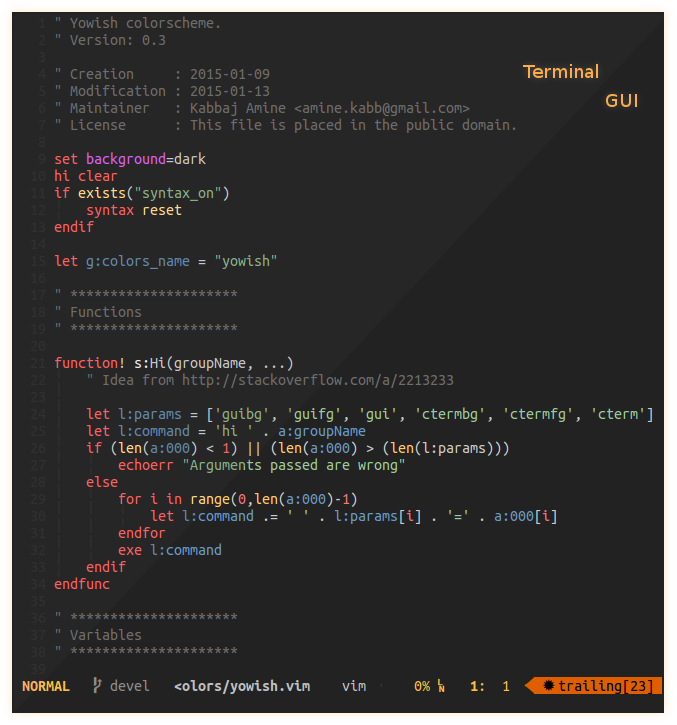
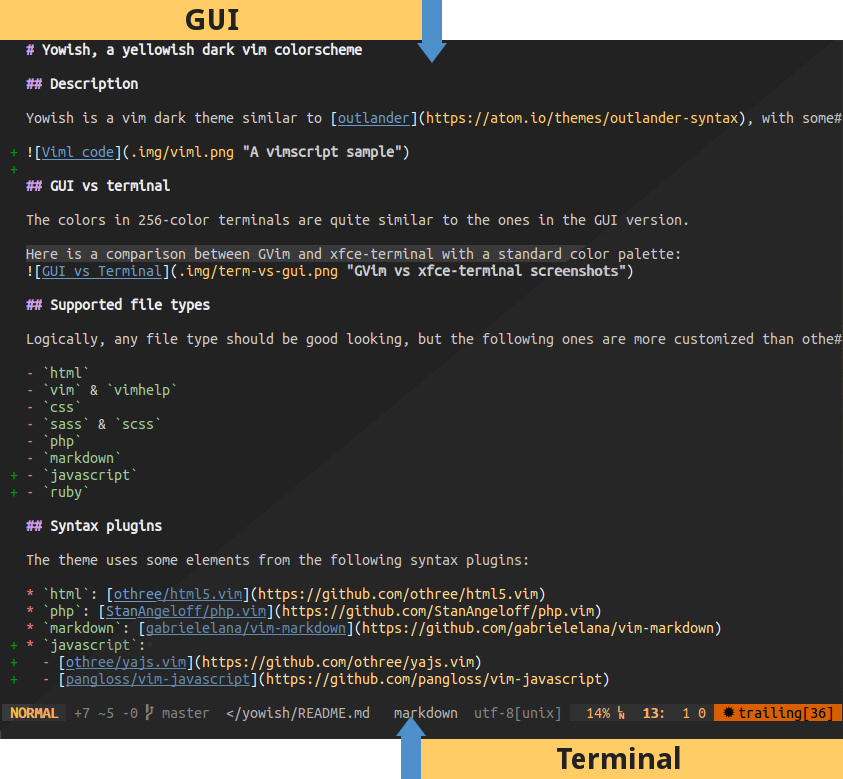
Version 0.5.3
- Refactoring
- Some changes in vimhelp colors
- Better javascript & ruby support

Changed region(s): [[0.0, 0.0, 1.0, 1.0], [0.7445, 0.6979, 0.8375, 0.7283], [0.7445, 0.5462, 0.8375, 0.5766]]

diff --git a/README.md b/README.md
@@ -2,34 +2,46 @@
 
 ## Description
 
-Yowish is a vim dark theme similar to [outlander](https://atom.io/themes/outlander-syntax), with some yellow in it :smiley: (Works well on both GUI & 256-colors terminal)
+Yowish is a vim dark theme similar to [outlander](https://atom.io/themes/outlander-syntax), with some yellow in it :smiley: (Works well on both GUI & 256-colors terminal).
 
-It looks good on most file types, but shows his true colors in the following ones:
-
-- `HTML` & `CSS`
-- `SASS` & `SCSS`
-
-  ![HTML, CSS & SCSS](.img/html-css-scss.jpg "HTML, css and scss files")
-
-- `Vim` & `vimhelp`
-- `Markdown`
-
-  ![Vim, vimhelp & markdown](.img/vim-vimhelp-markdown.jpg "Vim, vimhelp and markdown files")
-
-- `PHP`
-
-  ![Php, NERDtree & Undotree plugins](.img/php-nerdtree-undotree.jpg "Php file with NERDtree and Undotree")
+![Viml code](.img/viml.png "A vimscript sample")
 
 ## GUI vs terminal
 
 The colors in 256-color terminals are quite similar to the ones in the GUI version.
 
 Here is a comparison between GVim and xfce-terminal with a standard color palette:
-![GUI vs Terminal](.img/term-vs-gui.png "GVim vs xfce-terminal screenshot")
 
-## Plugins
+![GUI vs Terminal](.img/term-vs-gui.png "GVim vs xfce-terminal screenshots")
 
-The theme provides custom colors for the following plugins:
+## Supported file types
+
+Logically, any file type should be good looking, but the following ones are more customized than others:
+
+- `css`
+- `html`
+- `javascript`
+- `markdown`
+- `php`
+- `ruby`
+- `sass` & `scss`
+- `vim` & `vimhelp`
+
+## Syntax plugins
+
+The theme uses some elements from the following syntax plugins:
+
+* `html`: [othree/html5.vim](https://github.com/othree/html5.vim)
+* `javascript`:
+  - [othree/yajs.vim](https://github.com/othree/yajs.vim)
+  - [pangloss/vim-javascript](https://github.com/pangloss/vim-javascript)
+* `markdown`: [gabrielelana/vim-markdown](https://github.com/gabrielelana/vim-markdown)
+* `php`: [StanAngeloff/php.vim](https://github.com/StanAngeloff/php.vim)
+
+## Other plugins
+
+The theme provides custom colors for:
+
 * [CtrlP](https://github.com/ctrlpvim/ctrlp.vim)
 
   ![CtrlP](.img/ctrlp.jpg "CtrlP")
@@ -38,7 +50,7 @@ The theme provides custom colors for the following plugins:
 
   ![NERDTree](.img/nerdtree.jpg "NERDTree")
 
-* An [airline](https://github.com/bling/vim-airline) theme
+* And an [airline](https://github.com/bling/vim-airline) theme
 
   ![Yowish theme for Airline](.img/airline.jpg "Different vim modes in airline with yowish")
 
@@ -56,16 +68,25 @@ Or in a better way, use a vim plugin manager:
 
 ## Notes
 
-Being the 1st vim colorscheme that I'm developing, feel free to report issues and PR.
+Being the 1st vim colorscheme that I'm developing, feel free to report issues.
+Pull requests are welcome, but please provide a before/after screenshot.
 
-And if you're asking yourself, yeah I like yellow color :smile:
+And if you're asking yourself, yeah I like yellow :smile:
 
 ## Todo
 
-- Better support for `python`, `c` and `java`...
+- Support more plugins
+- Better support for the following file types (PR are more than welcome):
+  - [x] [`javascript`](https://github.com/KabbAmine/yowish.vim/issues/3)
+  - [x] [`ruby`](https://github.com/KabbAmine/yowish.vim/issues/1)
+  - [ ] `python`
+  - [ ] `c`
+  - [ ] `java`
+- A simple html page for screenshots
+- A light theme?
 
 ## Thanks
 
-Thank to Bram Moolenaar for creating the best piece of software in the world :heart:
+Thanks to Bram Moolenaar for creating the best piece of software in the world :heart:
 
-Thank to you if you're using yowish.
+Thanks to you if you're using yowish.

diff --git a/CHANGELOG.md b/CHANGELOG.md
@@ -3,6 +3,23 @@ CHANGELOG
 
 ------------------------------
 
+v0.5.3 <small>(2015-10-16)</small>
+------------------------------
+
+* Better javascript support
+* Better ruby support
+* Update screens
+
+------------------------------
+
+v0.5.1 <small>(2015-10-05)</small>
+------------------------------
+
+* More refactoring
+* Some changes in vimHelp colors
+
+------------------------------
+
 v0.5 <small>(2015-10-04)</small>
 ------------------------------
 
